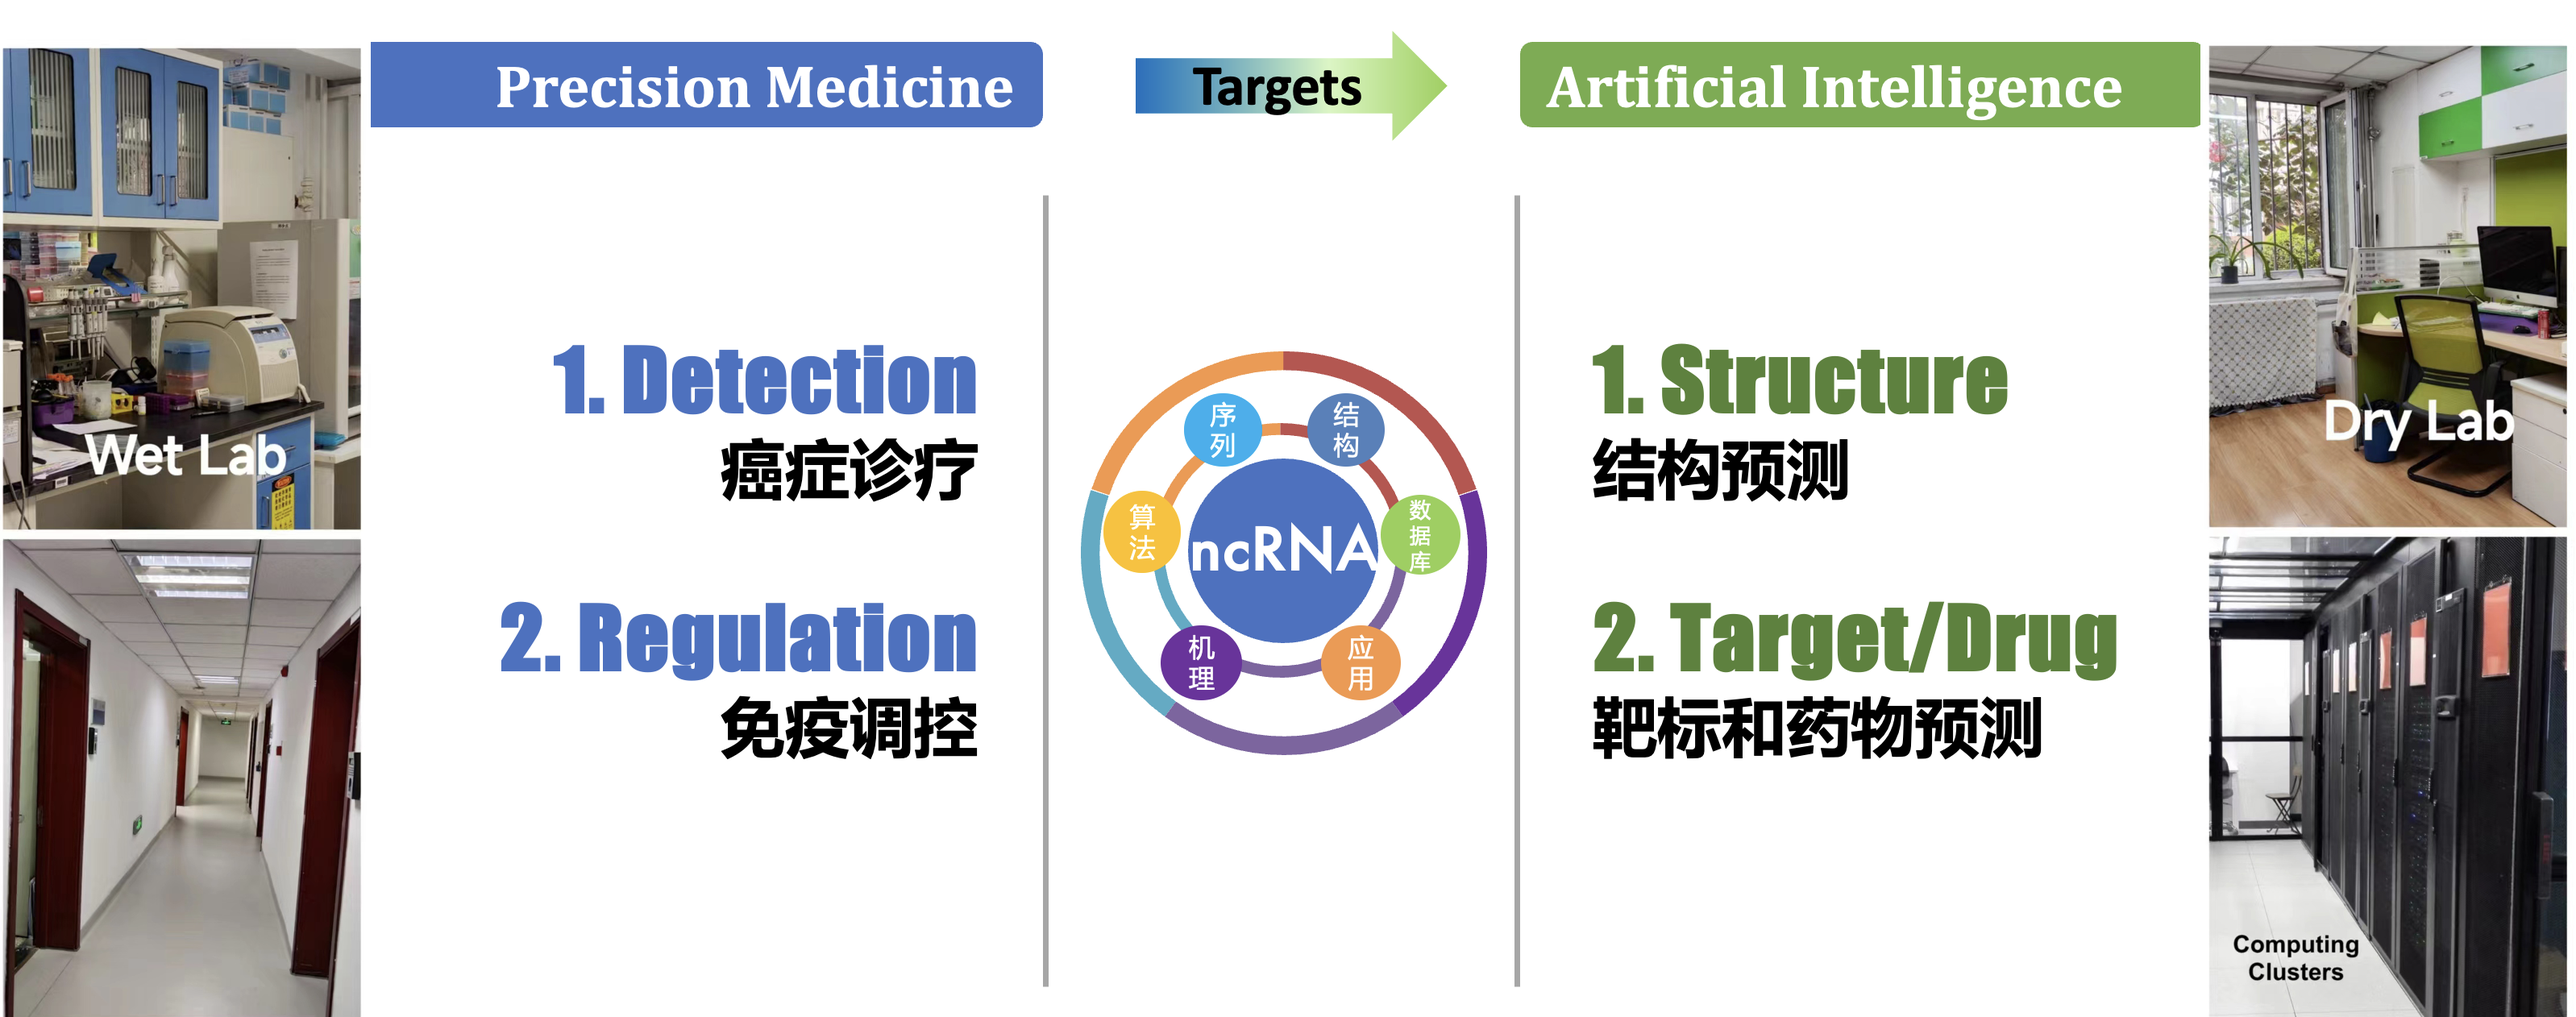
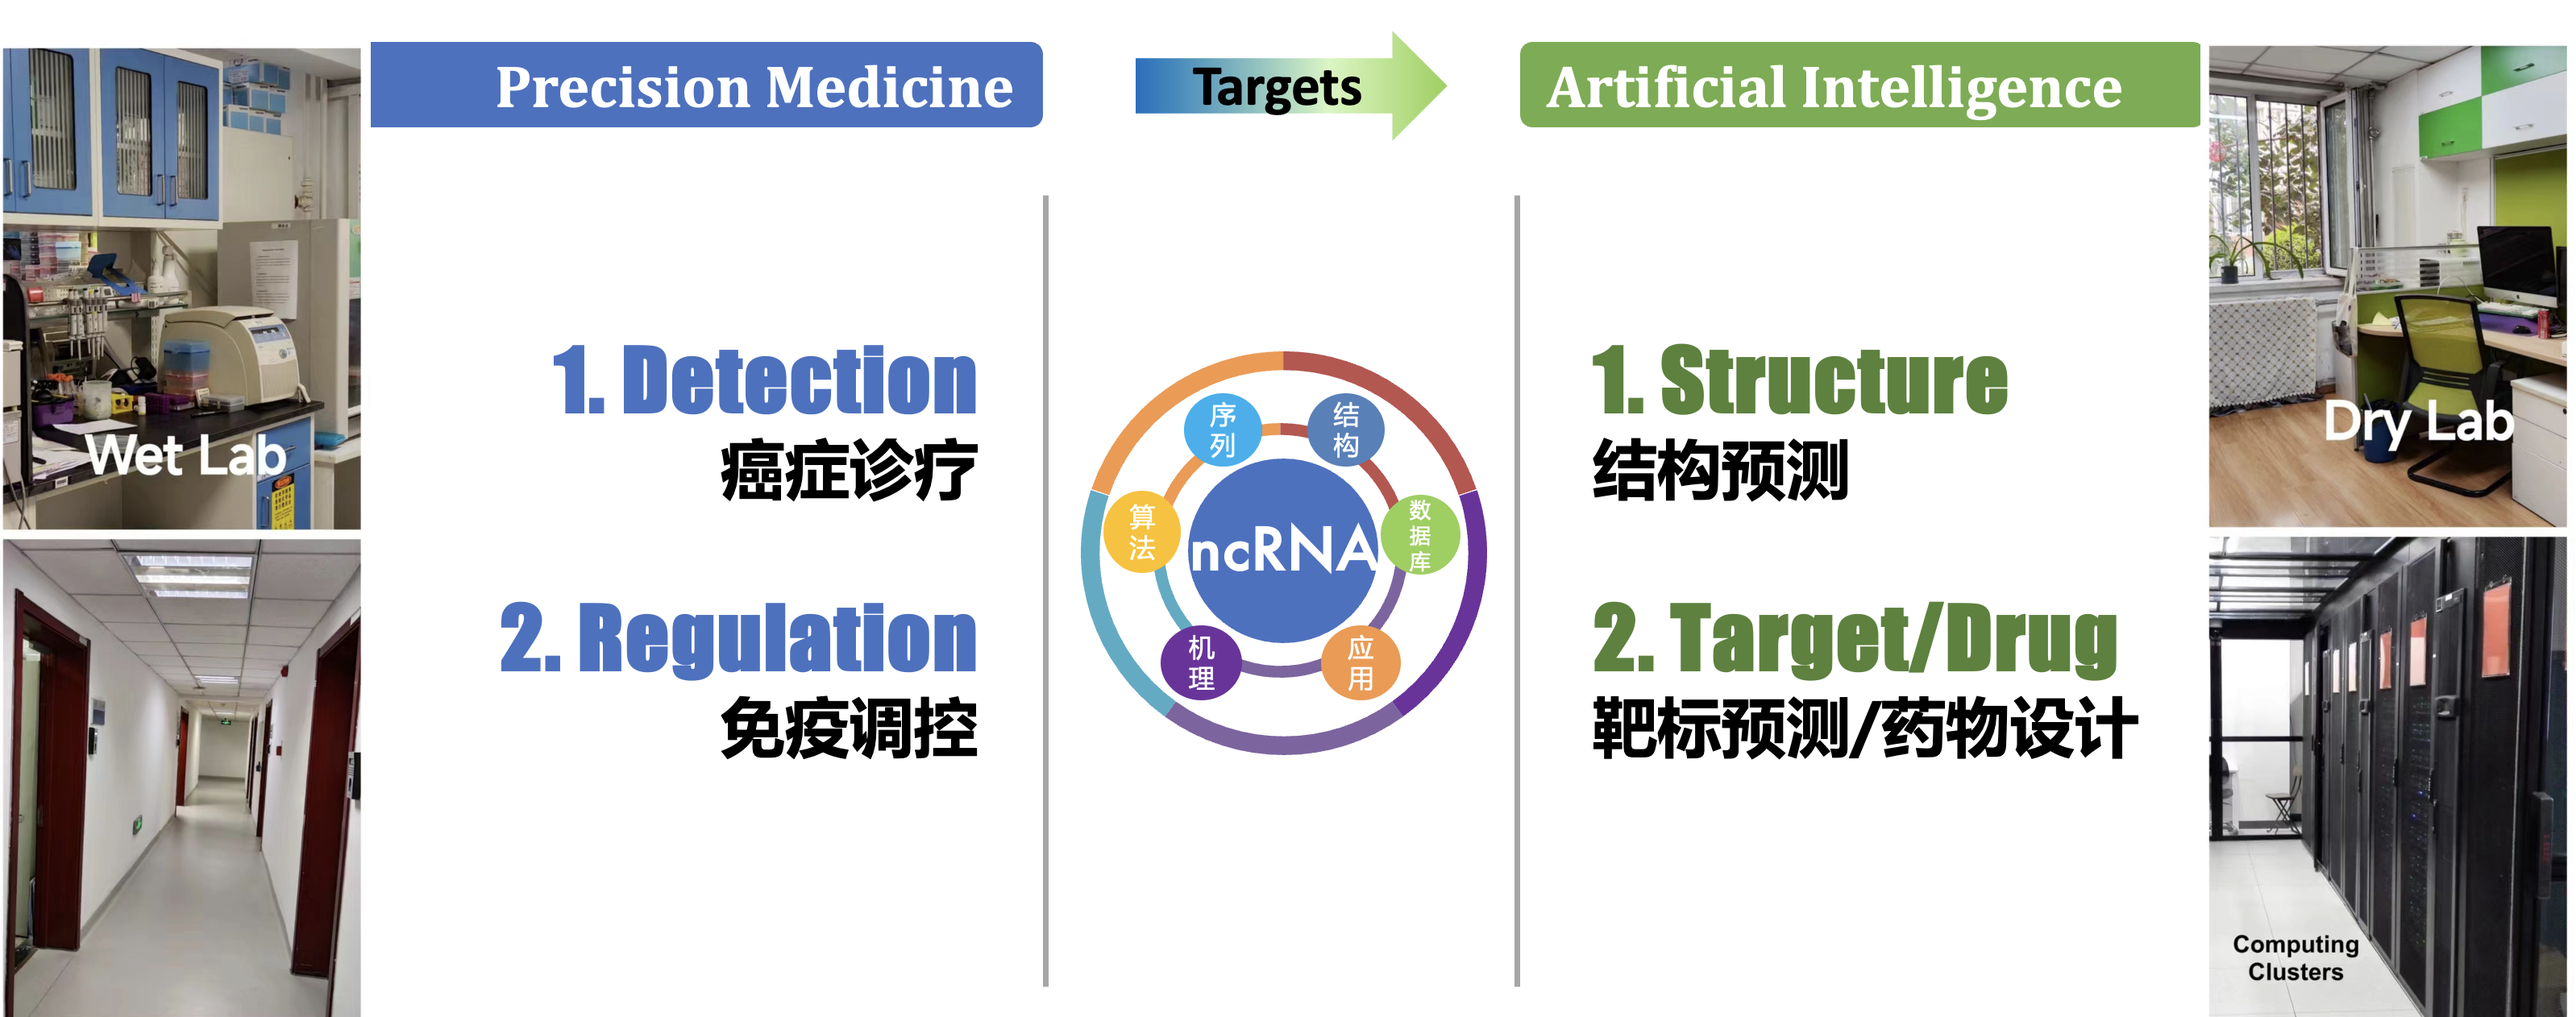
update

Changed region(s): [[0.6505, 0.6799, 0.8364, 0.7417]]

diff --git a/docs/projects/index.md b/docs/projects/index.md
@@ -14,7 +14,7 @@ description: Research @ Tsinghua
 
 
 
-对应着“诊断”和“治疗”，我们围绕**非编码 RNA**（**ncRNA**）分两个主要的科研方向：1）生信辅助的精准医疗（Precision Medicine）；2）AI辅助的药物设计 (AI-driven Drug Design) （下图）： 
+对应着“诊断”和“治疗”，我们围绕**非编码 RNA**（**ncRNA**）分两个主要的科研方向：1）生信辅助的精准医疗（Precision Medicine）；2）AI辅助的结构预测和药物设计 (AI-driven Structure Prediction & Drug Design) （下图）： 
 
 Corresponding to **diagnosis** and **treatment**, we have two major research directions centered on **noncoding RNA (ncRNA)**:
 
@@ -110,8 +110,7 @@ The application of these methods to precision medicine can be mainly divided int
 </div>
 
 
-
-## II. AI-driven Drug Design {#AI}
+## II. AI-driven Structure Prediction & Drug Design {#AI}
 
 The introduction of new methods and new thinking in different fields can often lead to breakthrough progress in this discipline, so we pay special attention to introducing new technologies and new thinking in the latest computing field (such as new methods in deep learning) into biological data. We use bioinformatics methods to explore basic scientific questions such as the structure, regulation and target of RNA, especially **noncoding RNA** (**ncRNA**). Finally, it will bring us the new era of drug design.
 
